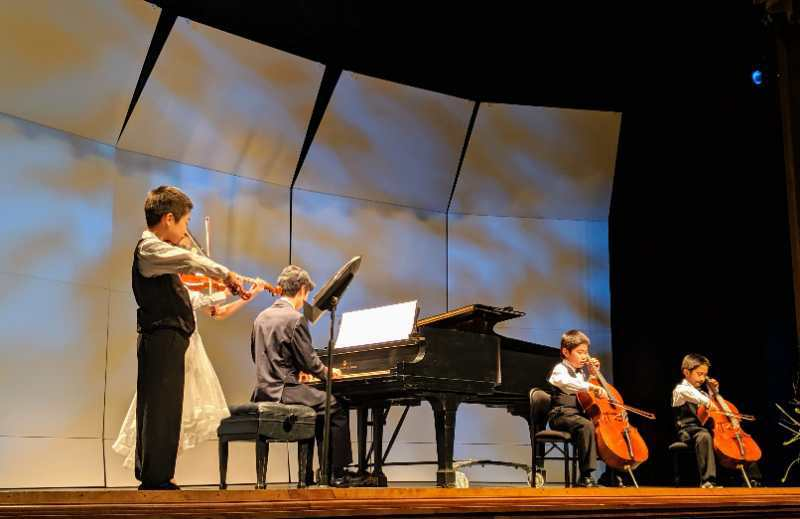
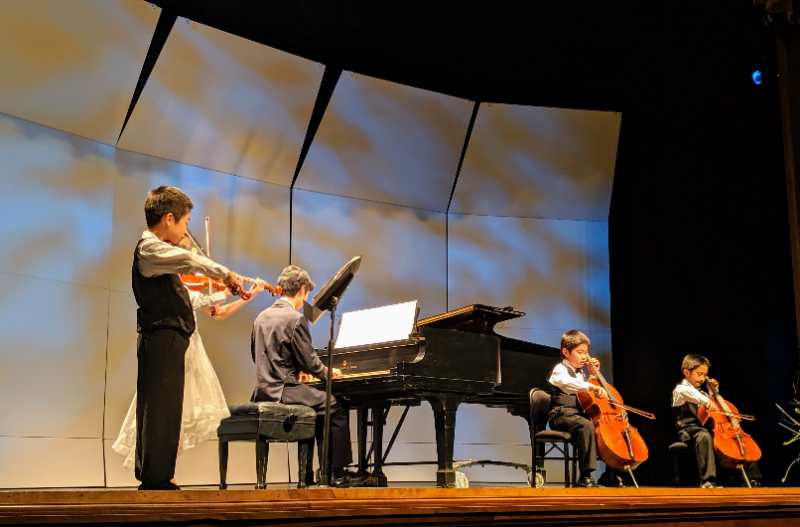
Commserv query edit

diff --git a/css/resources/queries.css b/css/resources/queries.css
@@ -24,7 +24,6 @@
     .icon-small {width: 17px; margin-right: 5px;}
     }
 
-    
 
 /* Small phone to small tablet: from 481 to 767 px */
 @media only screen and (max-width: 905px) {
@@ -106,7 +105,29 @@
 @media only screen and (min-width: 1060px) {.section-repertoire .repertoire-table td {font-size: 18px;}}
 @media only screen and (min-width: 400px) {.section-repertoire .repertoire-table td {font-size: 16px;}}
 @media only screen and (min-width: 300px) {.section-repertoire .repertoire-table td {font-size: 14px;}}
+
+
+/* Responsive Youtube iframe */
+@media only screen and (max-width: 670px) {
+    .wrap-element {
+        position: relative; 
+        overflow: hidden; 
+        padding-top: 56.25%;
+        margin-bottom: 30px;
+    }
     
+    .wrapped-iframe {position: absolute; top: 0; left: 0; width: 100%; height: 100%; border: 0;}
+    }
+
+
+@media only screen and (min-width: 671px) {.wrapped-iframe {height: 315px; width: 560px;}}
+    
+/* COMMSERV */
+@media only screen and (max-width: 533px) {
+    .NextGenChamb1F {display: block;}
+    .NextGenChamb1 {display: none;}
+    }
+
 /* STOCKS */
 @media only screen and (max-width: 470px) {
     .btn.btn-full, .btn.btn-ghost {display: none;}
@@ -138,7 +159,6 @@
     textarea {height: 150px;}
     .form .span-1-of-3 {width: 20%;}
 }
-
 
 
 

diff --git a/commserv.html b/commserv.html
@@ -3,7 +3,6 @@
     <head>
         <meta charset="utf-8">
         <meta name ="viewport" content="width=device-width, initial-scale=1.0">
-        <meta name="description" content=""> <! web search description[WIP]>
         <link rel="stylesheet" href="../css/resources/normalize.css" type="text/css">
         <link rel="stylesheet" href="../css/resources/grid.css" type="text/css"> 
         <link rel="stylesheet" href="https://unpkg.com/ionicons@4.5.10-0/dist/css/ionicons.min.css" type="text/css">  
@@ -61,7 +60,8 @@
                     </li>  
                     <li data-src="/css/img/CommServ/NextGenChamb1.jpg">
                         <a class="my-photo" href> 
-                             <img src="/css/img/CommServ/NextGenChamb1.jpg">
+                            <img src="/css/img/CommServ/NextGenChamb1.jpg" class="NextGenChamb1">
+                            <img src="/css/img/CommServ/NextGenChamb1F.jpg" class="NextGenChamb1F">
                         </a>
                     </li> 
                     <li data-src="/css/img/CommServ/Woodlands.jpg">

diff --git a/css/resources/style.css b/css/resources/style.css
@@ -448,6 +448,7 @@ header {
     width: 50%;
 }
 
+
 /* ----------------------------- */
 /* MIC */
 /* ----------------------------- */
@@ -528,6 +529,8 @@ figcaption {
     margin-bottom: 1%;
     border: none;
 }
+
+.NextGenChamb1F {display: none;}
 
 @media (max-width: 825px) {.comm-video-showcase a {width: 25%;}} 
 @media (max-width: 665px) {.comm-video-showcase a {width: 33%;}} 
